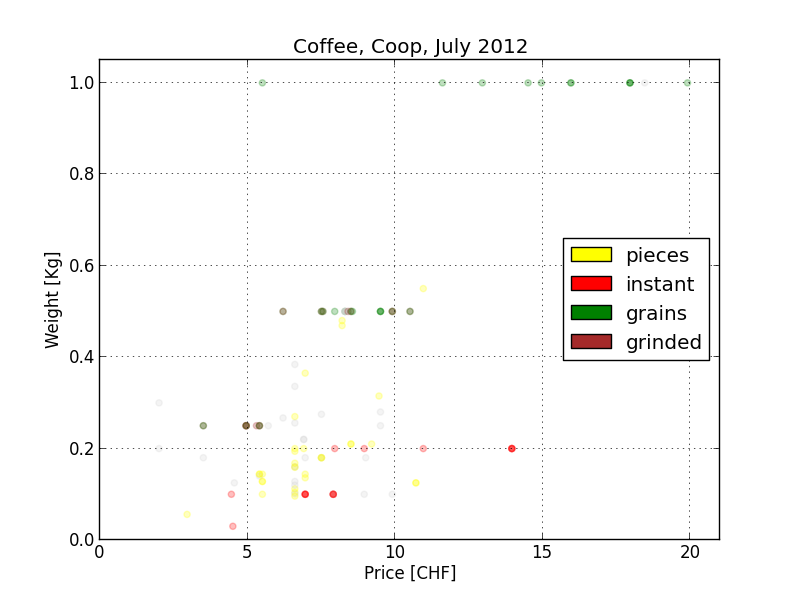
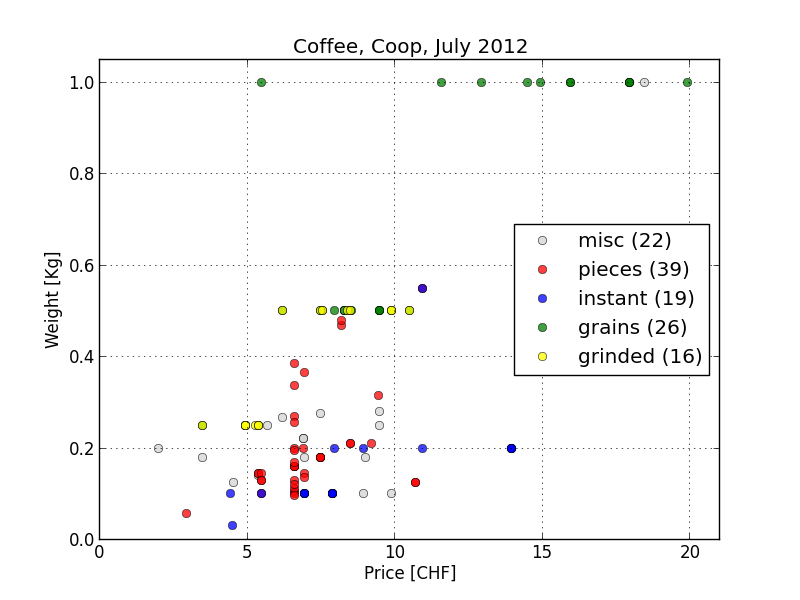
went from 54 to 37, dry, more expressive locs

diff --git a/coop_coffee/coop_coffee.py b/coop_coffee/coop_coffee.py
@@ -1,54 +1,37 @@
 #!/usr/bin/env python
 # -*- coding: utf-8 -*-
 
-from numpy import genfromtxt
 from matplotlib import pyplot
-from pylab import Rectangle
+import numpy
+import re
 
-data = genfromtxt('coop_coffee.csv', dtype=None, delimiter='\t')
+data = numpy.recfromcsv('coop_coffee.csv', delimiter='\t')
 
-x = []
-y = []
-colors = []
+cat_names = ('misc', 'pieces', 'instant', 'grains', 'grinded')
+categories = dict((name, []) for name in cat_names)
 
-for row in data:
+categories['pieces'] = [row for row in data if re.search("pièces|portions|sachet|capsule|nescafé dolce gusto", row[2], re.IGNORECASE)]
+categories['instant'] = [row for row in data if re.search("soluble|instant", row[2], re.IGNORECASE)]
+categories['grains'] = [row for row in data if re.search("grains", row[2], re.IGNORECASE)]
+categories['grinded'] = [row for row in data if re.search("moulu", row[2], re.IGNORECASE)]
+categories['misc'] = set(data) - set([row for rows in categories.values() for row in rows])
 
-    name = row[2].lower()
+pyplot.gca().set_color_cycle(['lightGray', 'red', 'blue', 'green', 'yellow'])
+
+for name in cat_names:
+    rows = categories[name]
+    x = [r[0] for r in rows]
+    y = [r[1] for r in rows]
     
-    if 'pièces' in name or \
-       'portions' in name or \
-       'sachet' in name or \
-       'capsule' in name or \
-       'Nescafé Dolce Gusto' in name:
-        colors.append('yellow')
-    elif 'soluble' in name or 'instantané' in name:
-        colors.append('red')
-    elif 'grains' in name:
-        colors.append('green')
-    elif 'moulu' in name:
-        colors.append('brown')
-    else:
-        colors.append('lightGray')
-    
-    x.append(row[0]) # price
-    y.append(row[1]) # weight
+    label = "%s (%d)" % (name, len(rows))
+    pyplot.plot(x, y, marker='o', alpha=0.75, linestyle='none', label=label)
 
 pyplot.title("Coffee, Coop, July 2012")
 pyplot.xlabel("Price [CHF]")
 pyplot.ylabel("Weight [Kg]")
-
-sct = pyplot.scatter(x, y, marker='o', color=colors)
-sct.set_alpha(0.25)
-
-p1 = Rectangle((0, 0), 1, 1, fc="yellow")
-p2 = Rectangle((0, 0), 1, 1, fc="red")
-p3 = Rectangle((0, 0), 1, 1, fc="green")
-p4 = Rectangle((0, 0), 1, 1, fc="brown")
-pyplot.legend((p1, p2, p3, p4), ('pieces','instant','grains','grinded'), loc="right")
-
 pyplot.ylim(0, 1.05)
 pyplot.xlim(0, 21)
-
 pyplot.grid()
+pyplot.legend(numpoints=1, loc="right")
 
 pyplot.savefig('coop_coffee.png')
